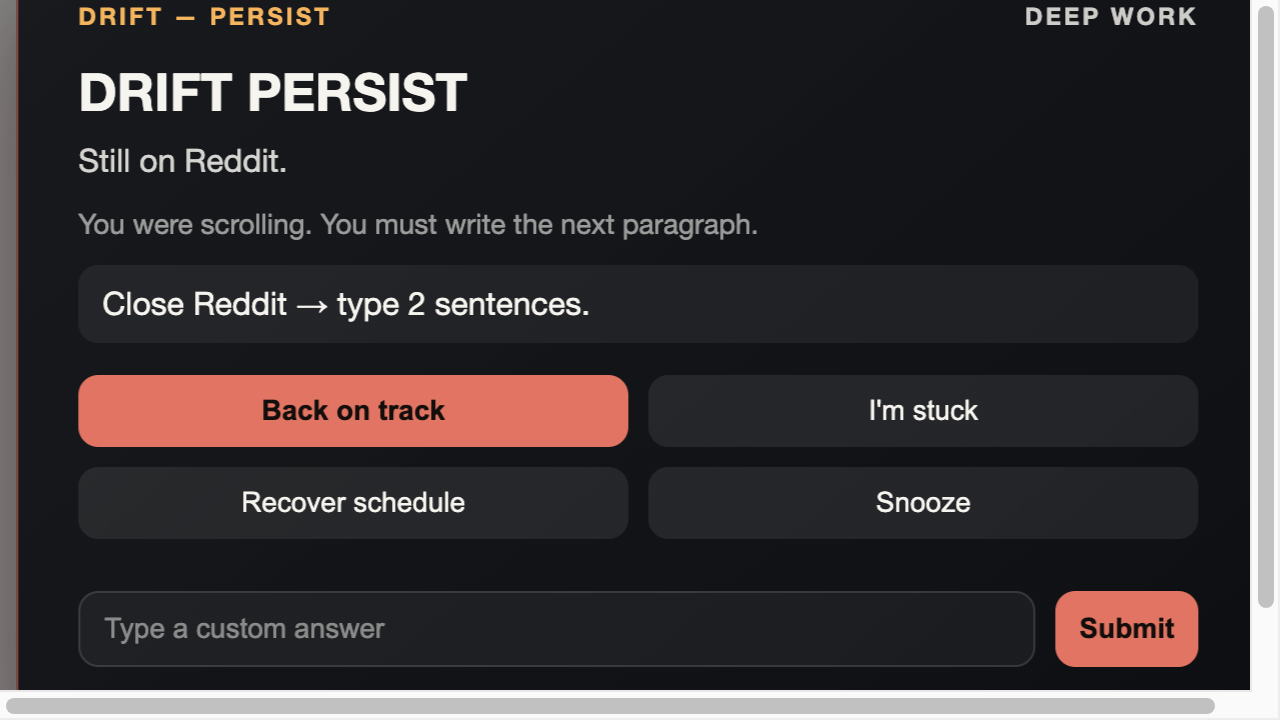
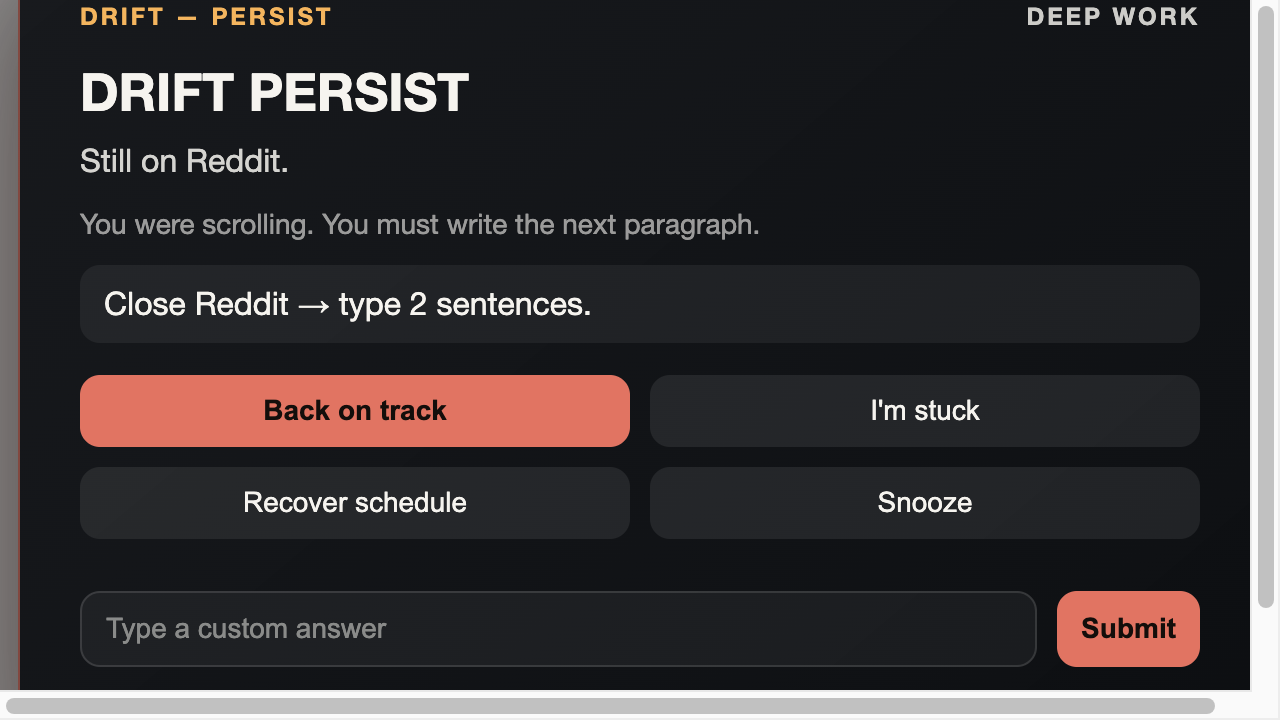
overlay: make screenshots deterministic + remove legacy script

diff --git a/overlay/scripts/screenshot.js b/overlay/scripts/screenshot.js
@@ -9,8 +9,12 @@ function ensureDir(dir) {
 }
 
 async function renderAndCapture(win, name, payload) {
-  win.webContents.send("overlay:show", payload);
-  await new Promise((r) => setTimeout(r, 75));
+  // Mark screenshot mode to disable animations/transitions for deterministic captures.
+  win.webContents.send("overlay:show", { ...payload, screenshot: true });
+
+  // Let the DOM/layout settle.
+  await new Promise((r) => setTimeout(r, 200));
+
   const image = await win.webContents.capturePage();
   fs.writeFileSync(path.join(OUT_DIR, name), image.toPNG());
 }
